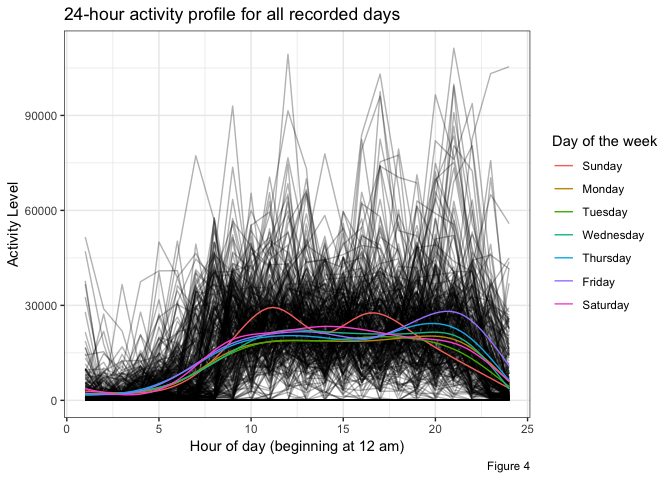
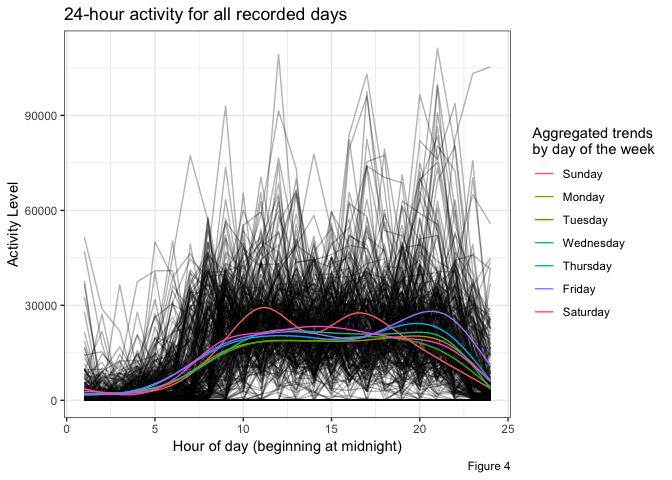
added more code comments. added caption to figure 5

diff --git a/p8105_mtp_amv2187.md b/p8105_mtp_amv2187.md
@@ -4,13 +4,13 @@ Alyssa Vanderbeek
 26 October 2018
 
 ``` r
-accel_data = read.csv('./data/accel_data.csv') %>%
-  janitor::clean_names() %>%
-  gather(key = minute, value = activity_level, contains('activity')) %>%
-  mutate(minute = as.integer(str_sub(minute, 10)),
-         day = fct_relevel(day, 'Sunday', 'Monday', 'Tuesday', 'Wednesday', 'Thursday', 'Friday', 'Saturday'),
+accel_data = read.csv('./data/accel_data.csv') %>% # import
+  janitor::clean_names() %>% # clean names
+  gather(key = minute, value = activity_level, contains('activity')) %>% # tidy activity columns into single variable
+  mutate(minute = as.integer(str_sub(minute, 10)), # adjust activity period to numeric only
+         day = fct_relevel(day, 'Sunday', 'Monday', 'Tuesday', 'Wednesday', 'Thursday', 'Friday', 'Saturday'), # relevel day of the week to go from Sunday to Saturday
          hour = ceiling(minute / 60)) %>% # the device records activity units for every minute of the day, so we can break this up into hours of the day, starting at midnight
-  arrange(week, day)
+  arrange(week, day) # arrange df by week and day
 
 str(accel_data)
 ```
@@ -44,7 +44,7 @@ Overview
 
 Here I examine activity levels of a 63-year-old man over the course of several months (47 weeks). The individual has a BMI of 25, and was admitted to the CUMC Advanced Cardiac Care Center for congestive heart failure before participating in this study. The goal of the research is to understand whether activity level changes over time after a major cardiac event, and whether there is potential to gather information about health events from the data surrounding them.
 
-The dataset is comprised of information over 47 weeks (329 days), with information being collected every minute. The resulting dataset is the quite large, with 473760 recorded minutes, grouped by week and day of the week.
+The dataset is comprised of information collected every minute over 47 weeks (329 days). The resulting dataset is the quite large, with 473760 recorded minutes, grouped by week and day of the week.
 
 Activity level is measured in voltage by the device, where higher voltage counts indicate higher levels of activity. Of note, there was no missing data per se, but we can understand an activity count of 1 to mean that no activity was recorded in that minute; either the participant was not active or not wearing the device. For example, an entire day of recorded 1 values can be understood as a day on which the man did not wear the device. There were 18 such days recorded.
 
@@ -55,7 +55,7 @@ Upon receiving and tidying the data, I looked at the distribution of activity le
 
 ### Daily activity over time
 
-We are interested to know whether the man's activity levels increased over time. To do this, I fit a linear model with the day (1 to 329) as the predictor, and conclude that activity level did on average increase over the course of the observed months (p&lt;0.0001; Figure 1). However, time alone accounts for only a small proportion of the variability in activity level.
+We are interested to know whether the man's activity levels increased over time. I fit a linear model with the day (1 to 329) as the predictor, which suggests that activity level did on average increase over the course of the observed months (p&lt;0.0001; Figure 1). However, time alone accounts for only a small proportion of the variability in activity level.
 
 ``` r
 # linear model to test whether activity changed over time. Significant positive slope says activity increased; significant negative intercept says acitvity decreased. Lack of significance fails to reject the null hypothesis that day over the course of the months of wear does not predict activity level.
@@ -86,7 +86,7 @@ summary(lm(agg_days$total_activity ~ agg_days$order))
 agg_days %>%
   ggplot(aes(x = order, y = total_activity)) +
   geom_point() + 
-  geom_smooth(method = 'lm', se = F)  +
+  geom_smooth(method = 'lm', se = F)  + # fit linear model, hide SE regions
   labs(
     title = 'Daily activity level over time',
     y = 'Total activity level',
@@ -97,7 +97,7 @@ agg_days %>%
 
 ![](p8105_mtp_amv2187_files/figure-markdown_github/unnamed-chunk-2-1.png)
 
-Since we also have information on the day of the week (DOW), we can test the hypothesis that DOW also predicts activity level. An ANOVA test suggests that there is little evidence to suggest that the average activity level varies by DOW (Figure 2). This holds true when accounting for time (Figure 3). Interestingly, Saturday goes from being, on average, the least active DOW to the most active by the end of the study period.
+Since we also have information on the day of the week (DOW), we can test the hypothesis that DOW also predicts activity level. An ANOVA test indicates that there is little evidence to suggest that the average activity level varies by DOW (Figure 2). This holds true when accounting for time (Figure 3). Interestingly, Saturday goes from being, on average, the least active DOW to the most active by the end of the study period.
 
 ``` r
 # ANOVA testing relationship between activity level and day of the week
@@ -124,10 +124,8 @@ boxplot_dow = agg_days %>%
   ) + 
   theme(legend.position = 'none',
         title = element_text(size = 8),
-        axis.text.x = element_text(angle = 60, hjust = 1)) +
-  viridis::scale_fill_viridis(
-    discrete = T
-  )
+        axis.text.x = element_text(angle = 60, hjust = 1)) + # angle DOW on x-axis for readability
+  viridis::scale_fill_viridis(discrete = T)
 
 # ANOVA testing relationship between activity level and day of the week over time
 anova(lm(agg_days$total_activity ~ agg_days$day + agg_days$order)) # ANOVA test of difference between means
@@ -169,7 +167,7 @@ boxplot_dow + scatter_dow_time
 
 ### Activity over the course of the day
 
-I examined the distribution of activity by week, day of the week, and hour of day, and found that the participant was most active during his waking hours, between 7 am and 11 pm, approximately (Figure 4). This trend does not vary much by DOW (Figure 4), but we can see a general increase in activity during waking hours over time (Figure 5).
+I examined the distribution of activity by week, day of the week, and hour of day, and found that the participant was most active during his waking hours, between 7 am and 11 pm, approximately (Figure 4). This trend does not vary much by DOW (Figure 4), but we can see a general increase in activity during waking hours over time (Figure 5, in agreement with prior linear model).
 
 ``` r
 # daily 24-hour activity profile (spaghetti plot)
@@ -179,14 +177,14 @@ accel_data %>%
   summarise(total_activity_hr = sum(activity_level)) %>% # get total activity for each hour of every day
   ungroup %>%
   mutate(day_over_time = ceiling(row_number()/24)) %>% # variable to group by day 1:329
-  ggplot(aes(y = total_activity_hr, x = hour, group = day_over_time)) +
-  geom_line(alpha = 0.3) + # plot the 24-hr activity for each day
+  ggplot(aes(y = total_activity_hr, x = hour)) +
+  geom_line(aes(group = day_over_time), alpha = 0.3) + # plot the 24-hr activity for each day
   geom_smooth(aes(group = day, color = day), se = F, alpha = 0.3, size = 0.5) + # add smoothed lines for day of the week
   labs(
-    title = '24-hour activity profile for all recorded days',
-    x = 'Hour of day (beginning at 12 am)',
+    title = '24-hour activity for all recorded days',
+    x = 'Hour of day (beginning at midnight)',
     y = 'Activity Level',
-    color = 'Day of the week',
+    color = 'Aggregated trends \nby day of the week',
     caption = 'Figure 4'
   ) 
 ```
@@ -201,17 +199,16 @@ accel_data %>%
   group_by(week, hour) %>% # group by week and hour
   summarise(total_activity_hr = sum(activity_level)) %>% # get total activity for each hour of every day
   ungroup %>%
-  mutate(day_over_time = ceiling(row_number()/24)) %>% # variable to group by day 1:329
   ggplot(aes(x = week, y = hour)) +
   geom_point(aes(size = total_activity_hr), alpha = 0.5) +
   labs(
     title = 'Hourly activity level over time',
     y = 'Hour of day (beginning at midnight)',
     x = 'Time (weeks)',
-    caption = 'Figure 5',
+    caption = 'Figure 5. The size of the points indicates the amount of activity for a certain hour of the day (y-axis) \n in a given week (x-axis);smaller points indicate less activity and larger points indicate more.',
     size = 'Activity level'
   ) + 
-  theme(legend.position = 'bottom') +
+  theme(legend.position = 'none') +
   viridis::scale_color_viridis(discrete = T)
 ```
 
@@ -224,6 +221,6 @@ wordcountaddin::text_stats("p8105_mtp_amv2187.Rmd")
 | Method          | koRpus      | stringi       |
 |:----------------|:------------|:--------------|
 | Word count      | 474         | 460           |
-| Character count | 2764        | 2763          |
+| Character count | 2769        | 2768          |
 | Sentence count  | 24          | Not available |
 | Reading time    | 2.4 minutes | 2.3 minutes   |
